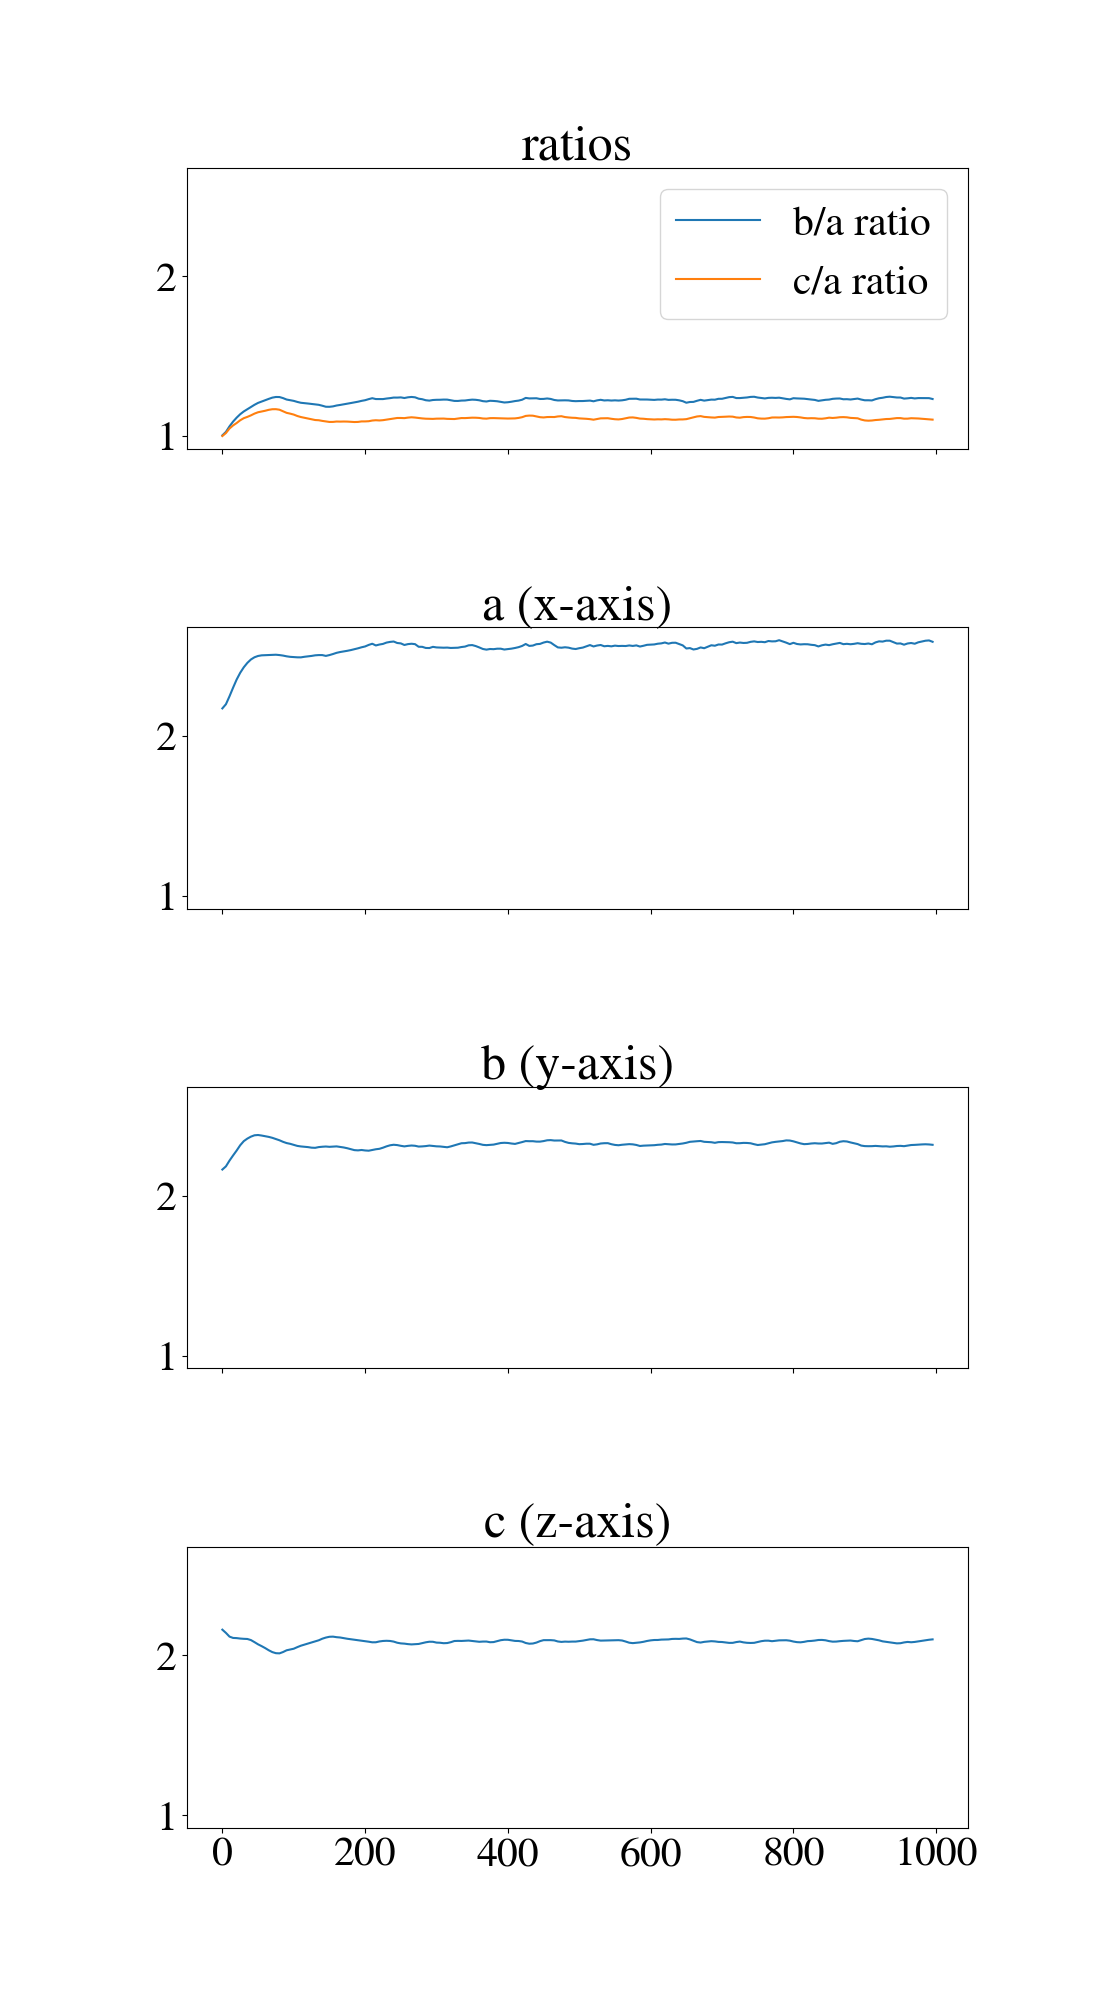
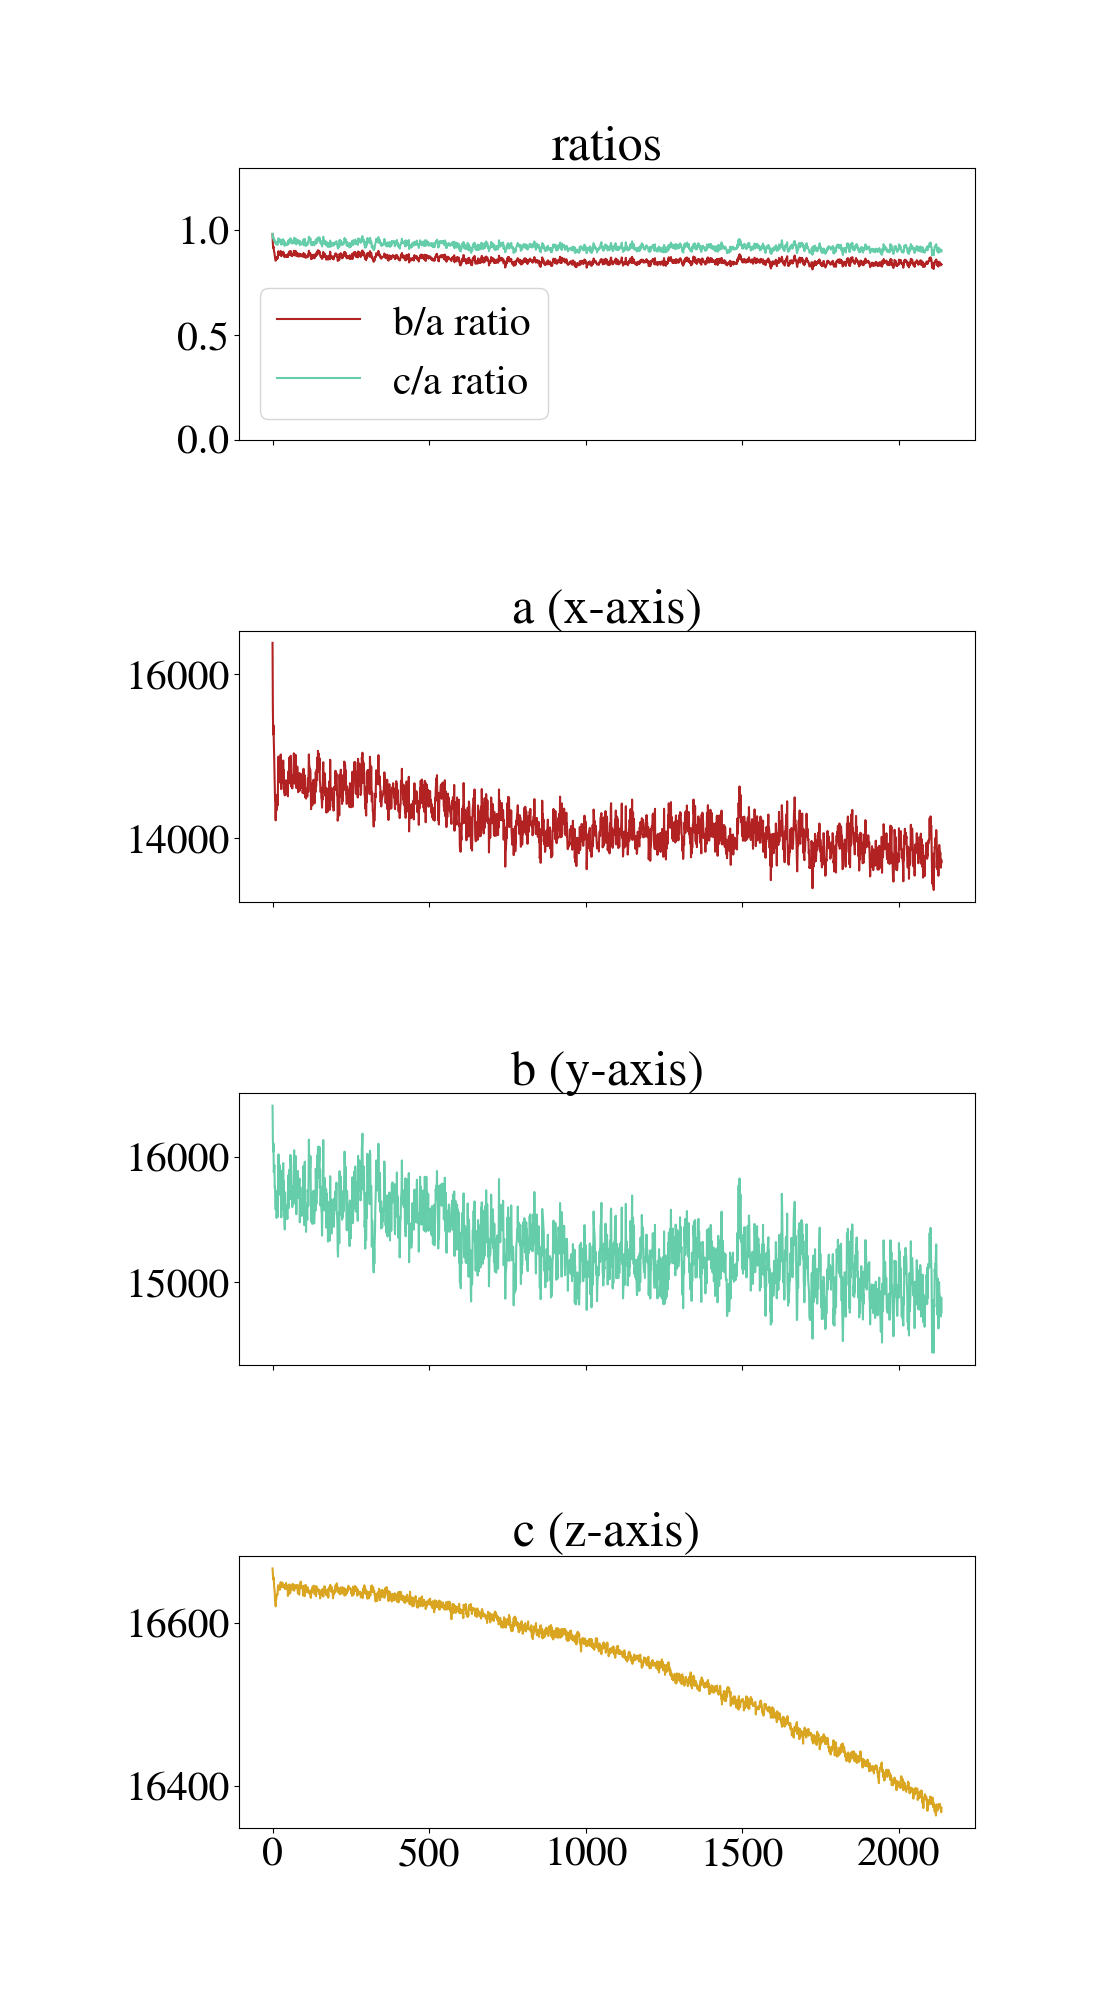
fix time extraction

diff --git a/axis_ratio_simulations/scripts/ratios_graphing.py b/axis_ratio_simulations/scripts/ratios_graphing.py
@@ -1,61 +1,64 @@
 
-###################
-## import data ####
-###################
-import pickle
+#TODO
+# change the time axes to half mass relaxation time so you know if you just need to run the simulations for much longere
+
+import sys
+sys.path.append('/Users/danecross/Desktop/research/SIDM_glob_clusters/')
+import os
+import nbody6pp_out as nb
+
 import numpy as np
+
+import matplotlib.pyplot as plt
+from scipy.stats import norm
+
+
+import matplotlib as mpl
+mpl.rcParams['figure.figsize'] = 11, 20
+font = {'size'   : 30}
+mpl.rcParams['mathtext.fontset'] = 'stix'
+mpl.rcParams['font.family'] = 'STIXGeneral'
+mpl.pyplot.title(r'ABC123 vs $\mathrm{ABC123}^{123}$')
+
+mpl.rc('font', **font)
+colors=['firebrick', 'mediumaquamarine', 'goldenrod']
+
+import pickle
 
 filenames = ["0p3", "0p6", "1p2"]
 
 M = [pickle.load(open("../data/pickled_data/"+ filenames[i] +"/M.pkl", "rb")) for i in range(len(filenames))]
 T = [pickle.load(open("../data/pickled_data/"+ filenames[i] +"/T.pkl", "rb")) for i in range(len(filenames))]
 
-cluster_data = [pickle.load(open("../data/pickled_data/"+ filenames[i] +"/cluster_data.pkl", "rb")) for i in range(len(filenames))]
-N = [cluster_data[i][0] for i in range(len(cluster_data))]
-r_h = [cluster_data[i][1] for i in range(len(cluster_data))]
+names = ["0.3" , "0.6", "1.2"]
 
-names = ["0.3", "0.6", "1.2"]
-
-####################
-### plot results ###
-####################
-
-import matplotlib.pyplot as plt
-import matplotlib as mpl
-#mpl.rcParams['figure.figsize'] = 11, 20
-#font = {'size'   : 30}
-#mpl.rcParams['mathtext.fontset'] = 'stix'
-#mpl.rcParams['font.family'] = 'STIXGeneral'
-
-#mpl.rc('font', **font)
-
-fig, ax = plt.subplots(3, 1, sharex=True, sharey=True)
+fig_full, ax_full = plt.subplots(3, 1, sharex=True, sharey=True)
+fig_full.set_size_inches(20, 20)
 
 for i in range(len(names)):
 
-    a = [M[i][j][0] for j in range(len(M[i]))]
-    b = [M[i][j][1] for j in range(len(M[i]))]
-    c = [M[i][j][2] for j in range(len(M[i]))]
+    a = np.array([M[i][j][0] for j in range(len(M[i]))])
+    b = np.array([M[i][j][1] for j in range(len(M[i]))])
+    c = np.array([M[i][j][2] for j in range(len(M[i]))])
 
-    major = [a[j]/c[j] for j in range(len(c))]
-    minor = [b[j]/c[j] for j in range(len(a))]
+    fig, ax = plt.subplots(4, 1, sharex=True, sharey=False)
+    ax[0].plot(a/c, label="b/a ratio", color=colors[0]) ; ax[0].set_title("ratios")
+    ax[0].plot(b/c, label="c/a ratio", color=colors[1]) ; ax[0].legend()
+    ax[0].set_ylim((0, 1.3))
 
-    t = T[i]
+    ax[1].plot(a, color=colors[0]) ; ax[1].set_title("a (x-axis)")
+    ax[2].plot(b, color=colors[1]) ; ax[2].set_title("b (y-axis)")
+    ax[3].plot(c, color=colors[2]) ; ax[3].set_title("c (z-axis)")
 
-    #calculate half mass relaxation time
-    hmrt = (0.138)*N[i]*r_h[i]**(3/2)/np.log10(0.11*N[i])
-    
-    ax[i].plot(minor, label="minor", color="indianred")
-    ax[i].plot(major, label="major", color="steelblue")
+    fig.tight_layout(pad=3.0)
+    plt.savefig("../plots/"+names[i]+"_analysis.png")
 
-    ax[i].set_title("$\omega$="+names[i])
-#    ax[i].set_ylim(0, 1.3)
-ax[0].legend()
-
-plt.suptitle("Axis Ratios for Various Rotations")
-plt.savefig("../plots/plotted_ratios.png")
-plt.show()
+    ax_full[i].set_title(names[i])
+    ax_full[i].plot(a/c, label="b/a ratio", color=colors[0])
+    ax_full[i].plot(b/c, label="c/a ratio", color=colors[1])
 
 
-
+ax_full[2].legend(bbox_to_anchor=(0.5, -0.6), loc='lower center')
+fig_full.tight_layout(pad=3.0)
+fig_full.savefig("../plots/plotted_ratios.png")
 

diff --git a/axis_ratio_simulations/scripts/extract_ratios.py b/axis_ratio_simulations/scripts/extract_ratios.py
@@ -1,7 +1,5 @@
 
 import sys
-sys.path.append('.')
-
 import os 
 import shutil
 
@@ -63,7 +61,7 @@ M = np.array(M)
 pickle.dump(M, open(os.path.join(newdir, "M.pkl"), "wb"))
 
 T = np.array(T)
-pickle.dump(M, open(os.path.join(newdir, "T.pkl"), "wb"))
+pickle.dump(T, open(os.path.join(newdir, "T.pkl"), "wb"))
 
 A = np.array(A)
 pickle.dump(A, open(os.path.join(newdir, "axes.pkl"), "wb"))
